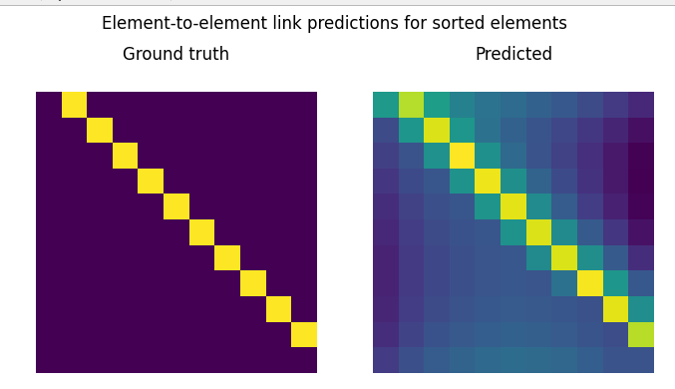
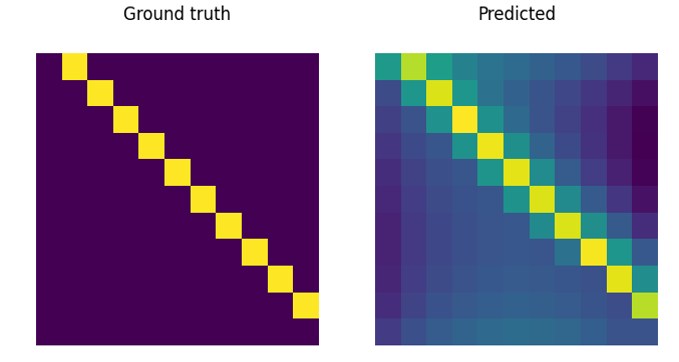
upload

diff --git a/README.md b/README.md
@@ -24,7 +24,7 @@ Results in the paper
 ![sort](https://user-images.githubusercontent.com/66901621/191694069-fef0f701-b949-4758-92b6-c8b019bf39d8.png)
 
 Results from pytorch implementation
-![sort-pytorch](https://user-images.githubusercontent.com/66901621/191692460-7ead52e2-32de-4b52-a376-c5b878e43705.png)
+![sort-pytorch](https://user-images.githubusercontent.com/66901621/191694450-c30c46ad-af56-4031-9caa-5327e2d4f31b.png)
 
 ##### Physics
 
